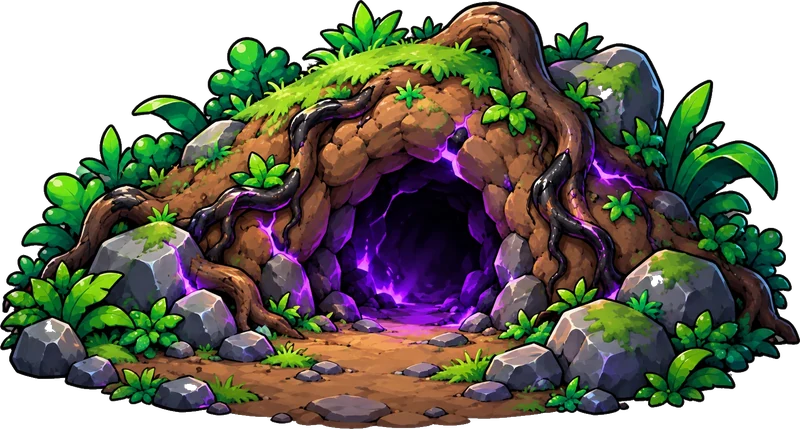
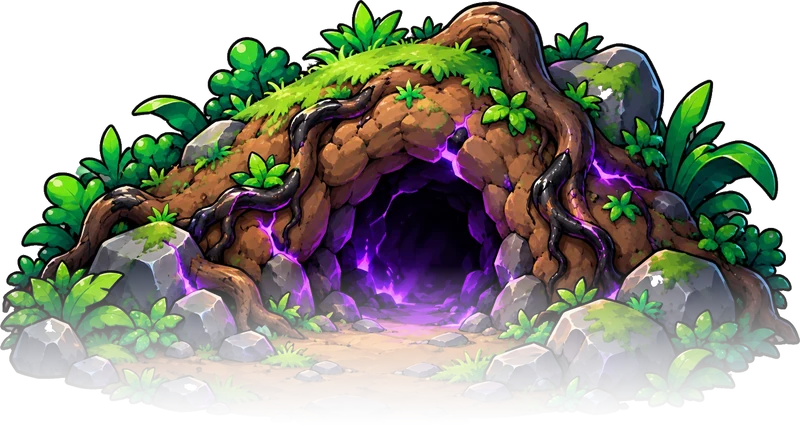
Jeu Spirit : objets du donjon, correction du blocage dans les portes, arbres harmonisés, chemin vers le Terrier
Claude-Session: https://claude.ai/code/session_01H9Lthdyi4Yt8UdeFU5WNwb

Changed region(s): [[0.0, 0.6364, 1.0, 1.0]]

diff --git a/jeu-spirit/jeu/js/jeu.js b/jeu-spirit/jeu/js/jeu.js
@@ -346,10 +346,12 @@ SG.Jeu = class {
     const cle = this.voisin(dir);
     const avant = this.capturer();
     const s = this.spirit;
-    if (dir === 'gauche') s.x = SG.W - s.pw / 2 - 2;
-    if (dir === 'droite') s.x = s.pw / 2 + 2;
-    if (dir === 'haut') s.y = SG.H - 4;
-    if (dir === 'bas') s.y = s.ph + 4;
+    // dans un donjon, on entre d'une case pour ne pas rester dans l'encadrement de la porte
+    const m = this.estDonjon(cle) ? SG.T + 6 : 0;
+    if (dir === 'gauche') s.x = SG.W - s.pw / 2 - 2 - m;
+    if (dir === 'droite') s.x = s.pw / 2 + 2 + m;
+    if (dir === 'haut') s.y = SG.H - 4 - m;
+    if (dir === 'bas') s.y = s.ph + 4 + m;
     s.recul = null;
     this.entrerEcran(cle);
     const apres = this.capturer();
@@ -732,7 +734,7 @@ SG.Jeu = class {
         const graine = (c * 31 + r * 17 + this.ecran.length) % 7;
         let im = null, dx = 0, dy = 0, retourne = graine % 2 === 0;
         switch (ch) {
-          case 'T': im = I.arbre; dy = 6; break;
+          case 'T': im = I['arbre-sombre']; dy = 10; dx = (graine - 3) * 3; break;
           case 'S': im = I['arbre-sombre']; dy = r === SG.ROWS - 1 ? 45 : 10; dx = (graine - 3) * 3; break;
           case 'b': im = I.buisson; dy = -4; break;
           case 'h': im = I.herbes; dy = -8; break;

diff --git a/jeu-spirit/jeu/js/entites.js b/jeu-spirit/jeu/js/entites.js
@@ -13,6 +13,8 @@ SG.boitePieds = (e, x, y) => ({ x: (x ?? e.x) - e.pw / 2, y: (y ?? e.y) - e.ph, 
 
 SG.deplacer = function (jeu, e, dx, dy) {
   let bloque = false;
+  // déjà coincé dans un obstacle (porte refermée derrière soi) : on laisse sortir
+  if (jeu.collision(SG.boitePieds(e), e)) { e.x += dx; e.y += dy; return false; }
   if (dx) {
     const nx = e.x + dx;
     if (!jeu.collision(SG.boitePieds(e, nx, e.y), e)) e.x = nx; else bloque = true;

diff --git a/jeu-spirit/jeu/js/monde.js b/jeu-spirit/jeu/js/monde.js
@@ -125,9 +125,9 @@ SG.MONDE = {
     carte: [
       'SSSSSSSSSSSSSSSS',
       'S...b.ggDgg....S',
-      'S..h...........S',
-      'S.T....h...b...S',
-      'S......T...:::::',
+      'S..h....:......S',
+      'S.T....h:..b...S',
+      'S......T::::::::',
       'S..b.h.....:.h.S',
       'ST.....b.....T.S',
       'S..,.T....h..b.S',

diff --git a/jeu-spirit/outils/preparer_assets.py b/jeu-spirit/outils/preparer_assets.py
@@ -133,6 +133,16 @@ def main():
             al = np.clip((al - 0.06) / 0.94, 0, 1)
             rgb = np.where(al[..., None] > 0.01, a[..., :3] / np.maximum(al[..., None], 0.01), 0)
             im = Image.fromarray(np.dstack([rgb.clip(0, 255), al * 255]).astype('uint8'), 'RGBA')
+        if nom == 'entree-terrier':
+            # le bas de l'image se fond dans le sol
+            import numpy as np
+            a = np.array(im).astype(float)
+            h = a.shape[0]
+            debut = int(h * 0.62)
+            f = np.ones(h)
+            f[debut:] = np.linspace(1, 0, h - debut) ** 1.5
+            a[..., 3] *= f[:, None]
+            im = Image.fromarray(a.astype('uint8'), 'RGBA')
         cible = taille * ECHELLE
         s = cible / (im.height if axe == 'h' else im.width)
         im = im.resize((max(1, round(im.width * s)), max(1, round(im.height * s))), Image.LANCZOS)
